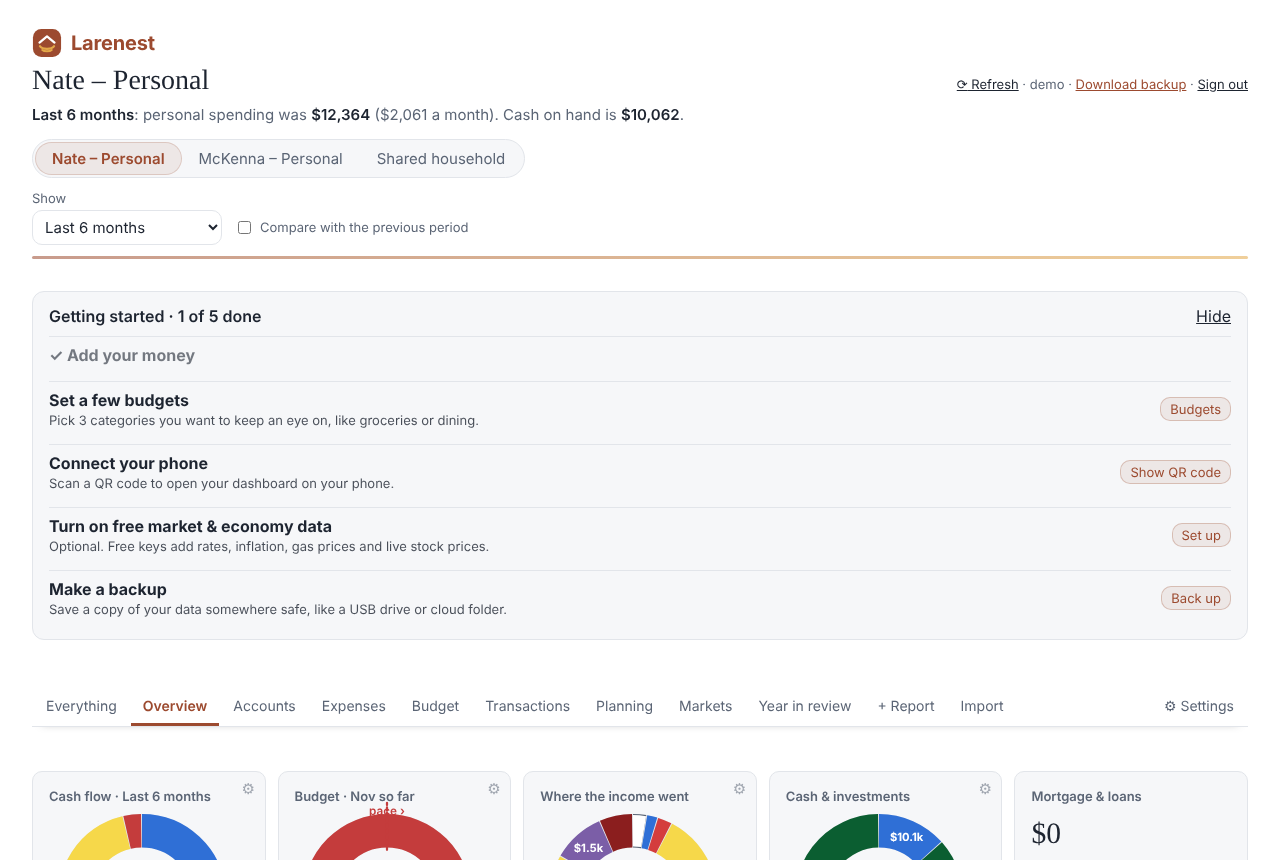
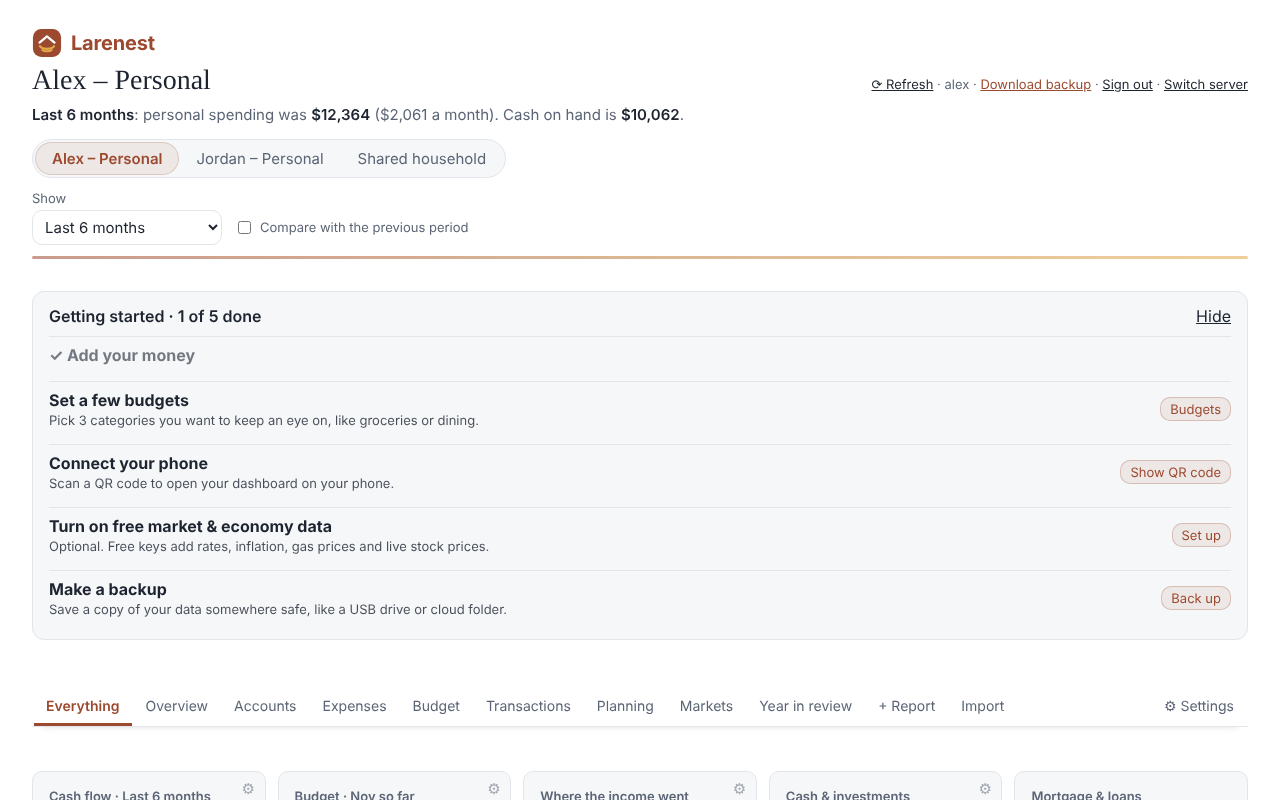
store-assets: retake demo shots with made-up names; widget shots to-do
Claude-Session: https://claude.ai/code/session_01M1CYmcXAvVvT6PdppCCTpH

diff --git a/store-assets/README.md b/store-assets/README.md
@@ -8,3 +8,7 @@ Add new screenshots here only after they've been cleaned (no emails, codes, PINs
 - `desktop/`: the PC app (host window, setup) and the dashboard on a computer
 
 Gallery page (claude.ai, private to you): https://claude.ai/artifact/VGAhHK7gTVrfo29AvrVYzv
+
+## To do
+- After the next release (Android 1.6.5 with the Market movers widget and the investments chart): take fresh widget screenshots, then make
+  listing images with one widget per image on a clean, professional background (replaces `android/widgets-home-screen.png`).
